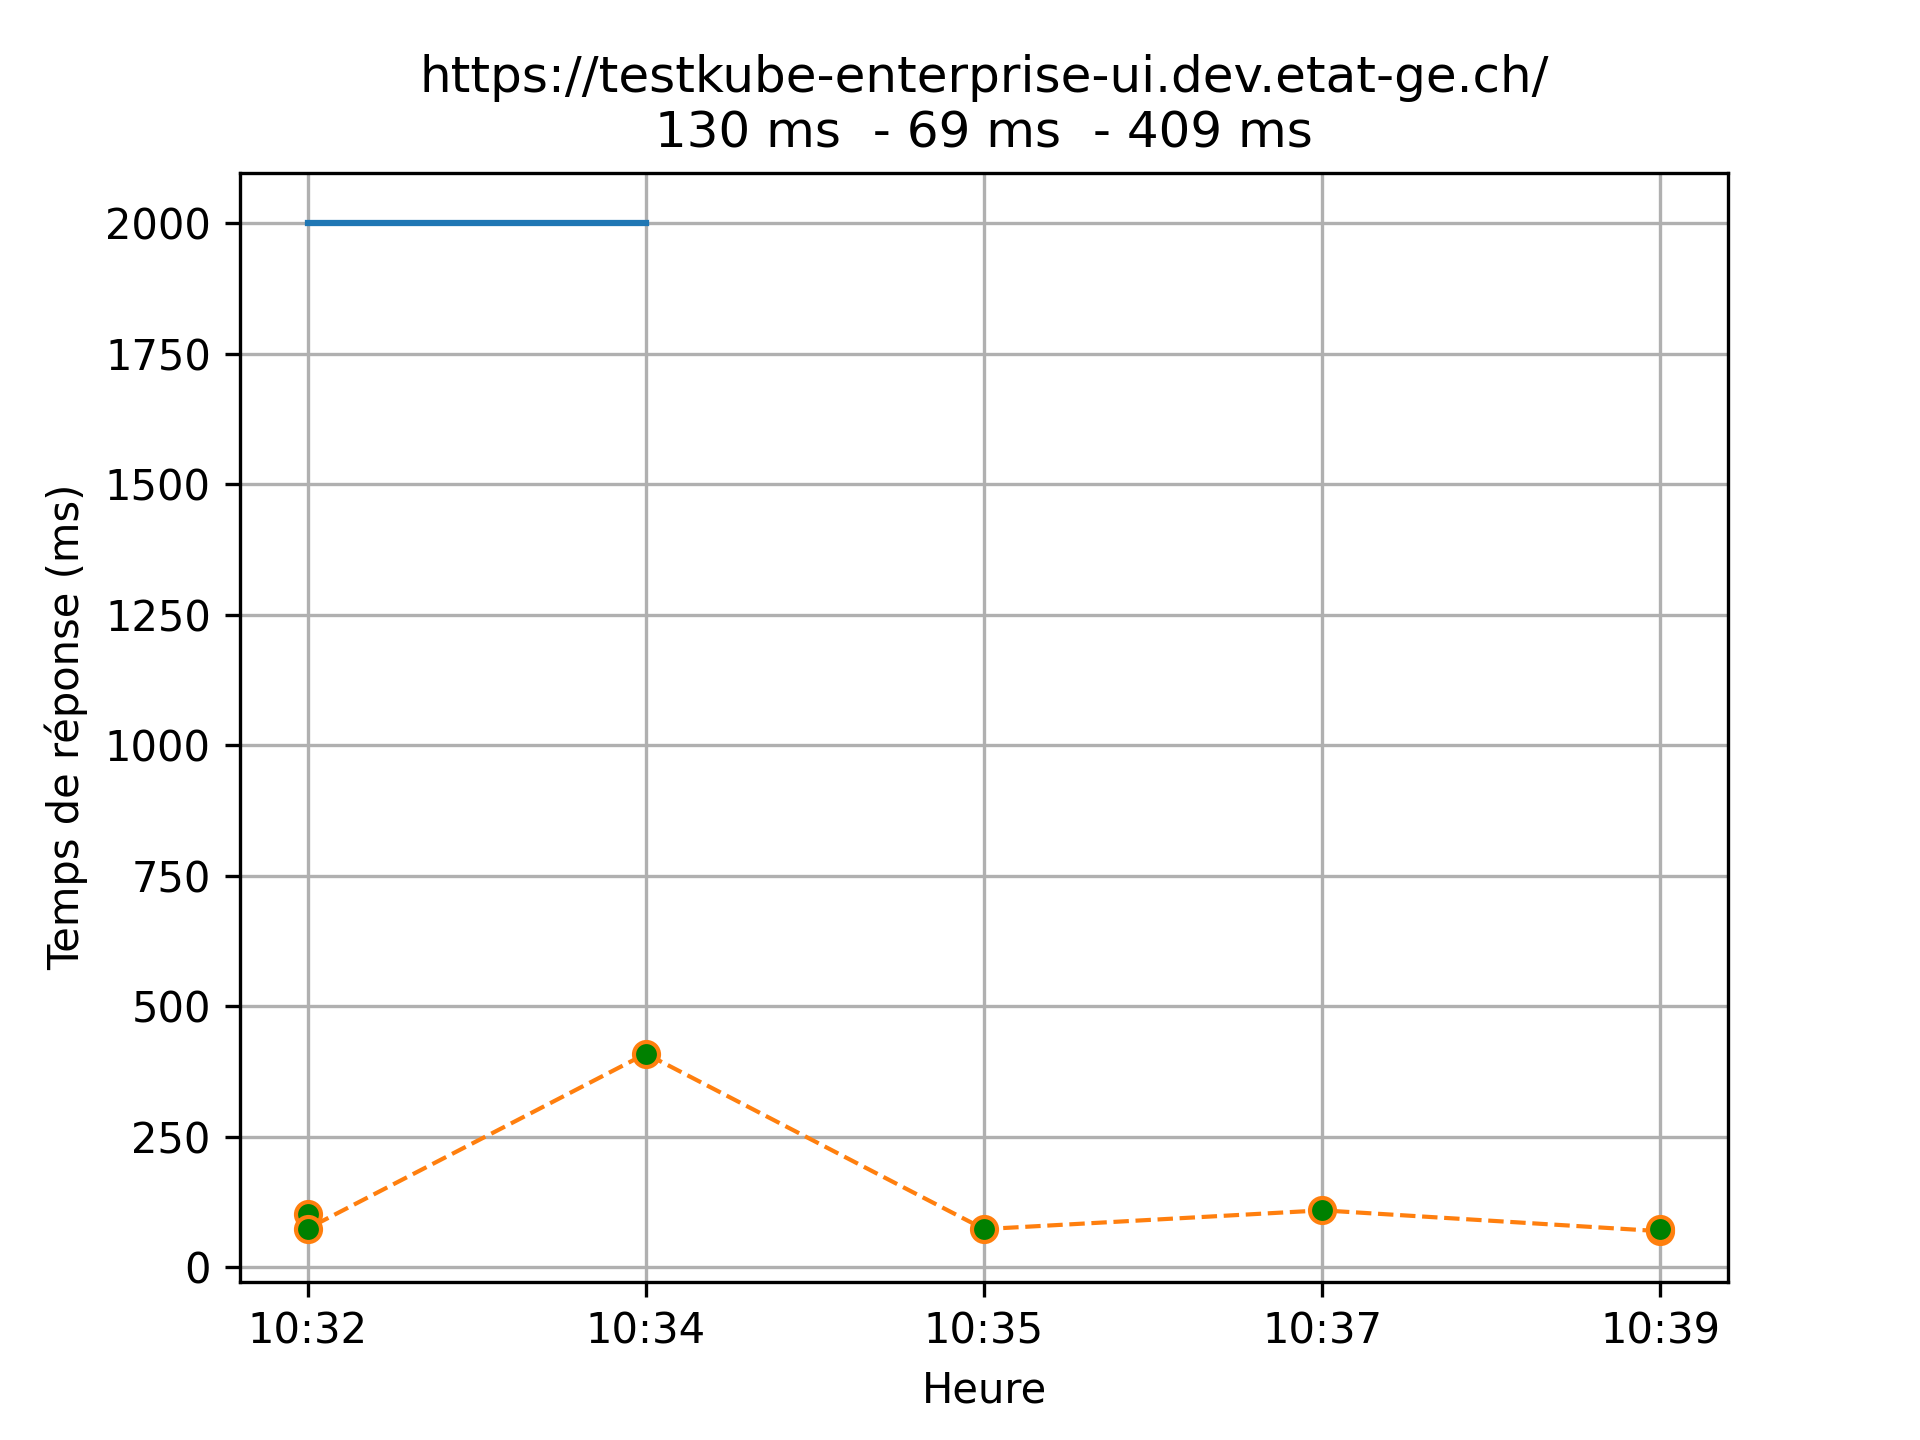
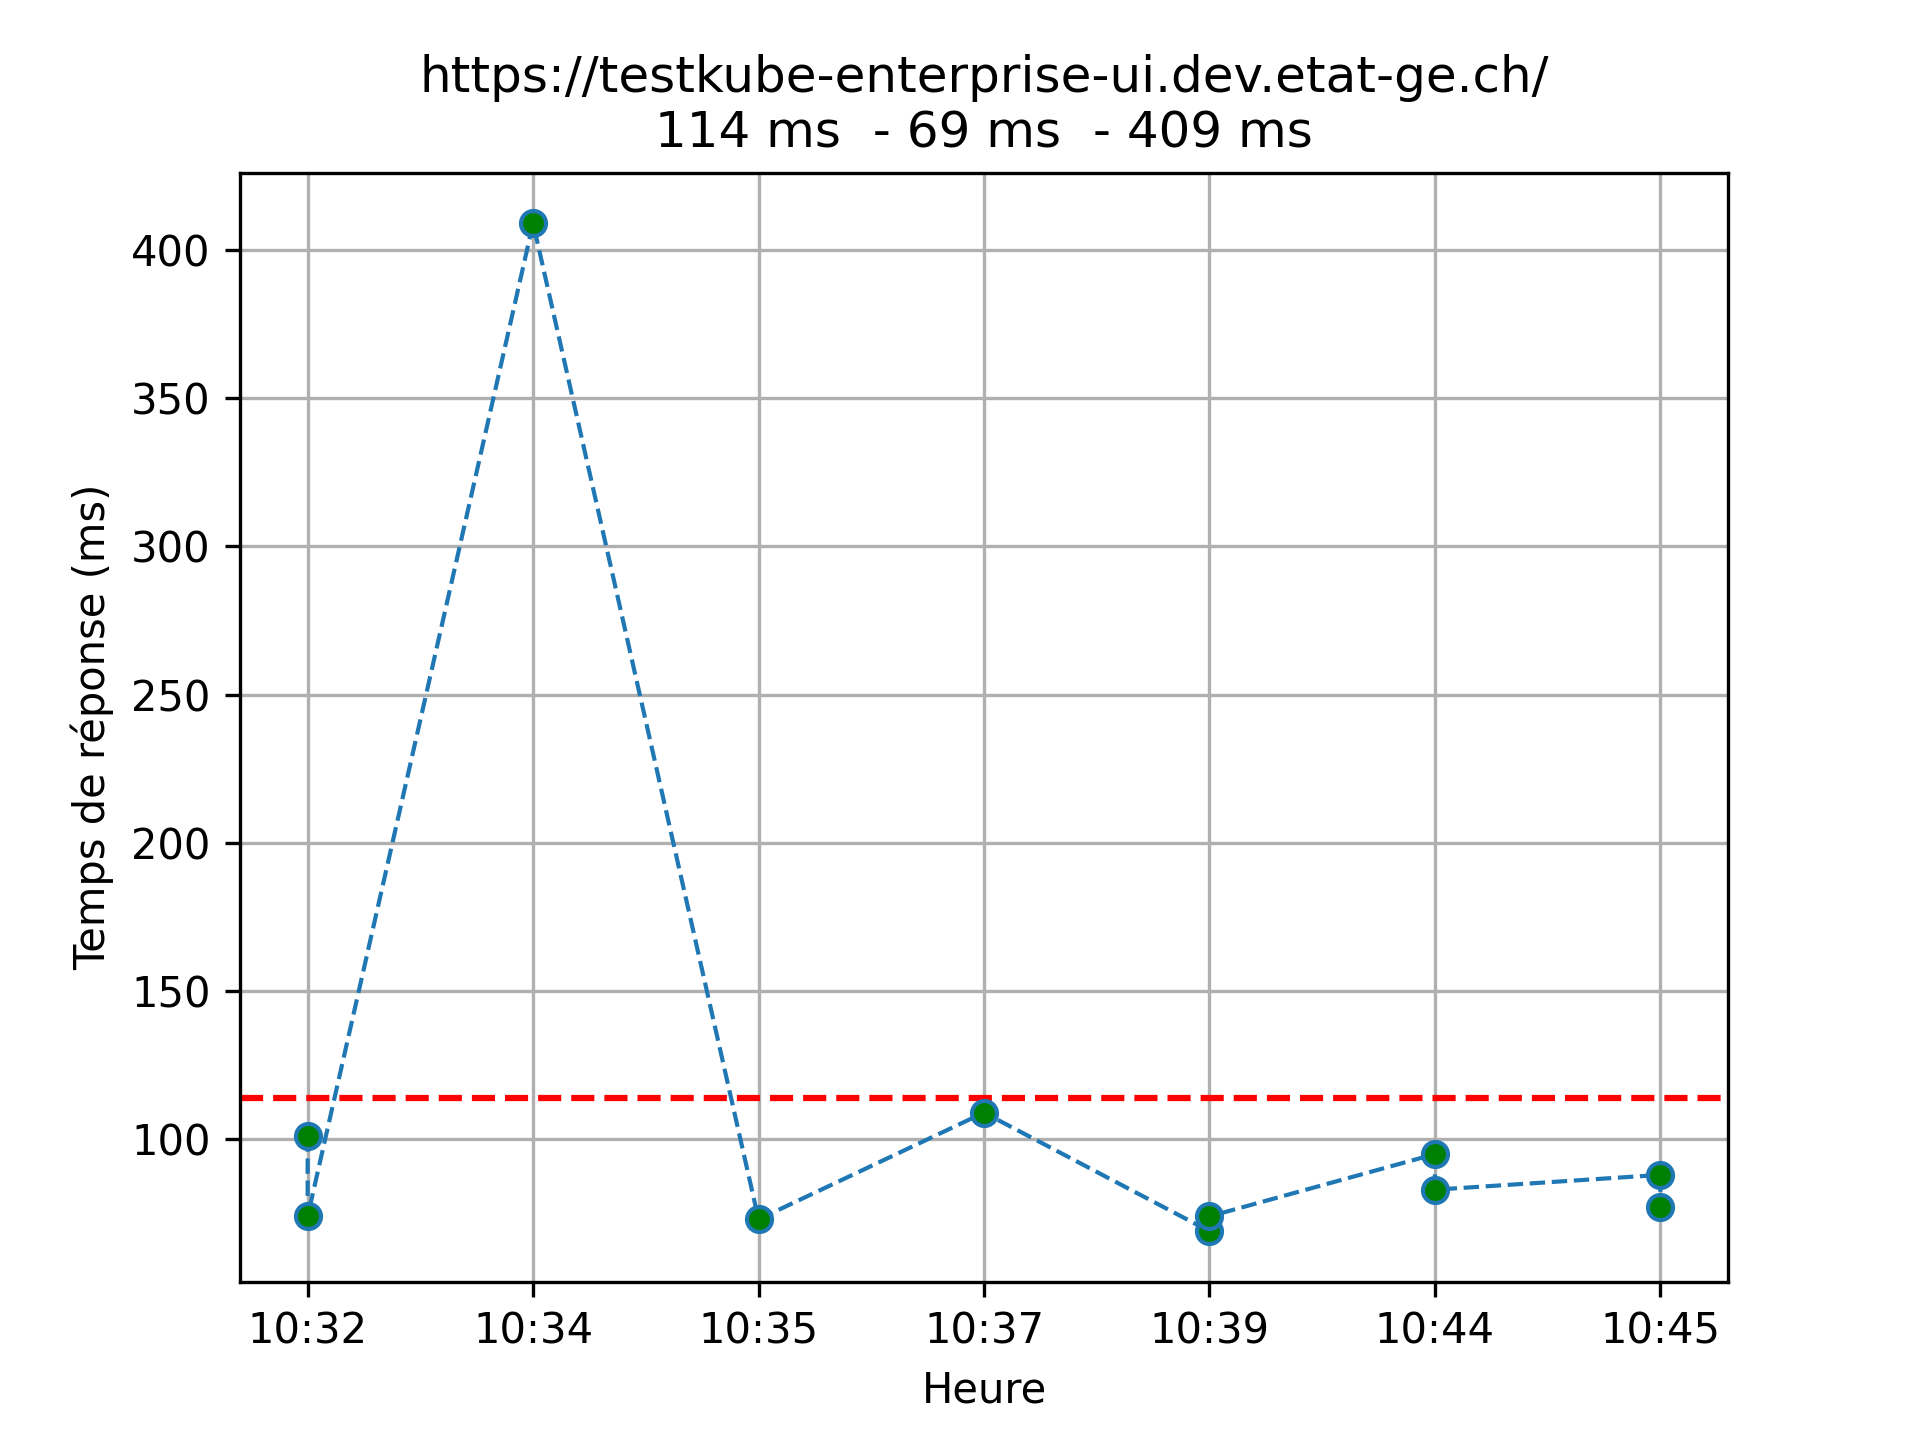
Affichage d'une ligne pour la moyenne

diff --git a/lanceSonde.py b/lanceSonde.py
@@ -106,7 +106,8 @@ moyTdf = np.mean(tabTdr) # Moyenne de toutes les données
 # Mise en place du Titre du Graphique avec le host sondé
 plt.title(host + "\n" + str(round(moyTdf)) + " ms " +  " - " + str(round(minTdr)) + " ms " + " - "+ str(round(maxTdr)) + " ms")
 
-plt.plot([2000,2000])
+# Affichage de la moyenne de l'ensemble des données
+plt.axhline(y=moyTdf, color='r', linestyle='--')
 
 # Graphique avec des petits traits et des bulles
 plt.plot(labels,Tdr, marker='o', linestyle='dashed',markerfacecolor='green',linewidth=1)
